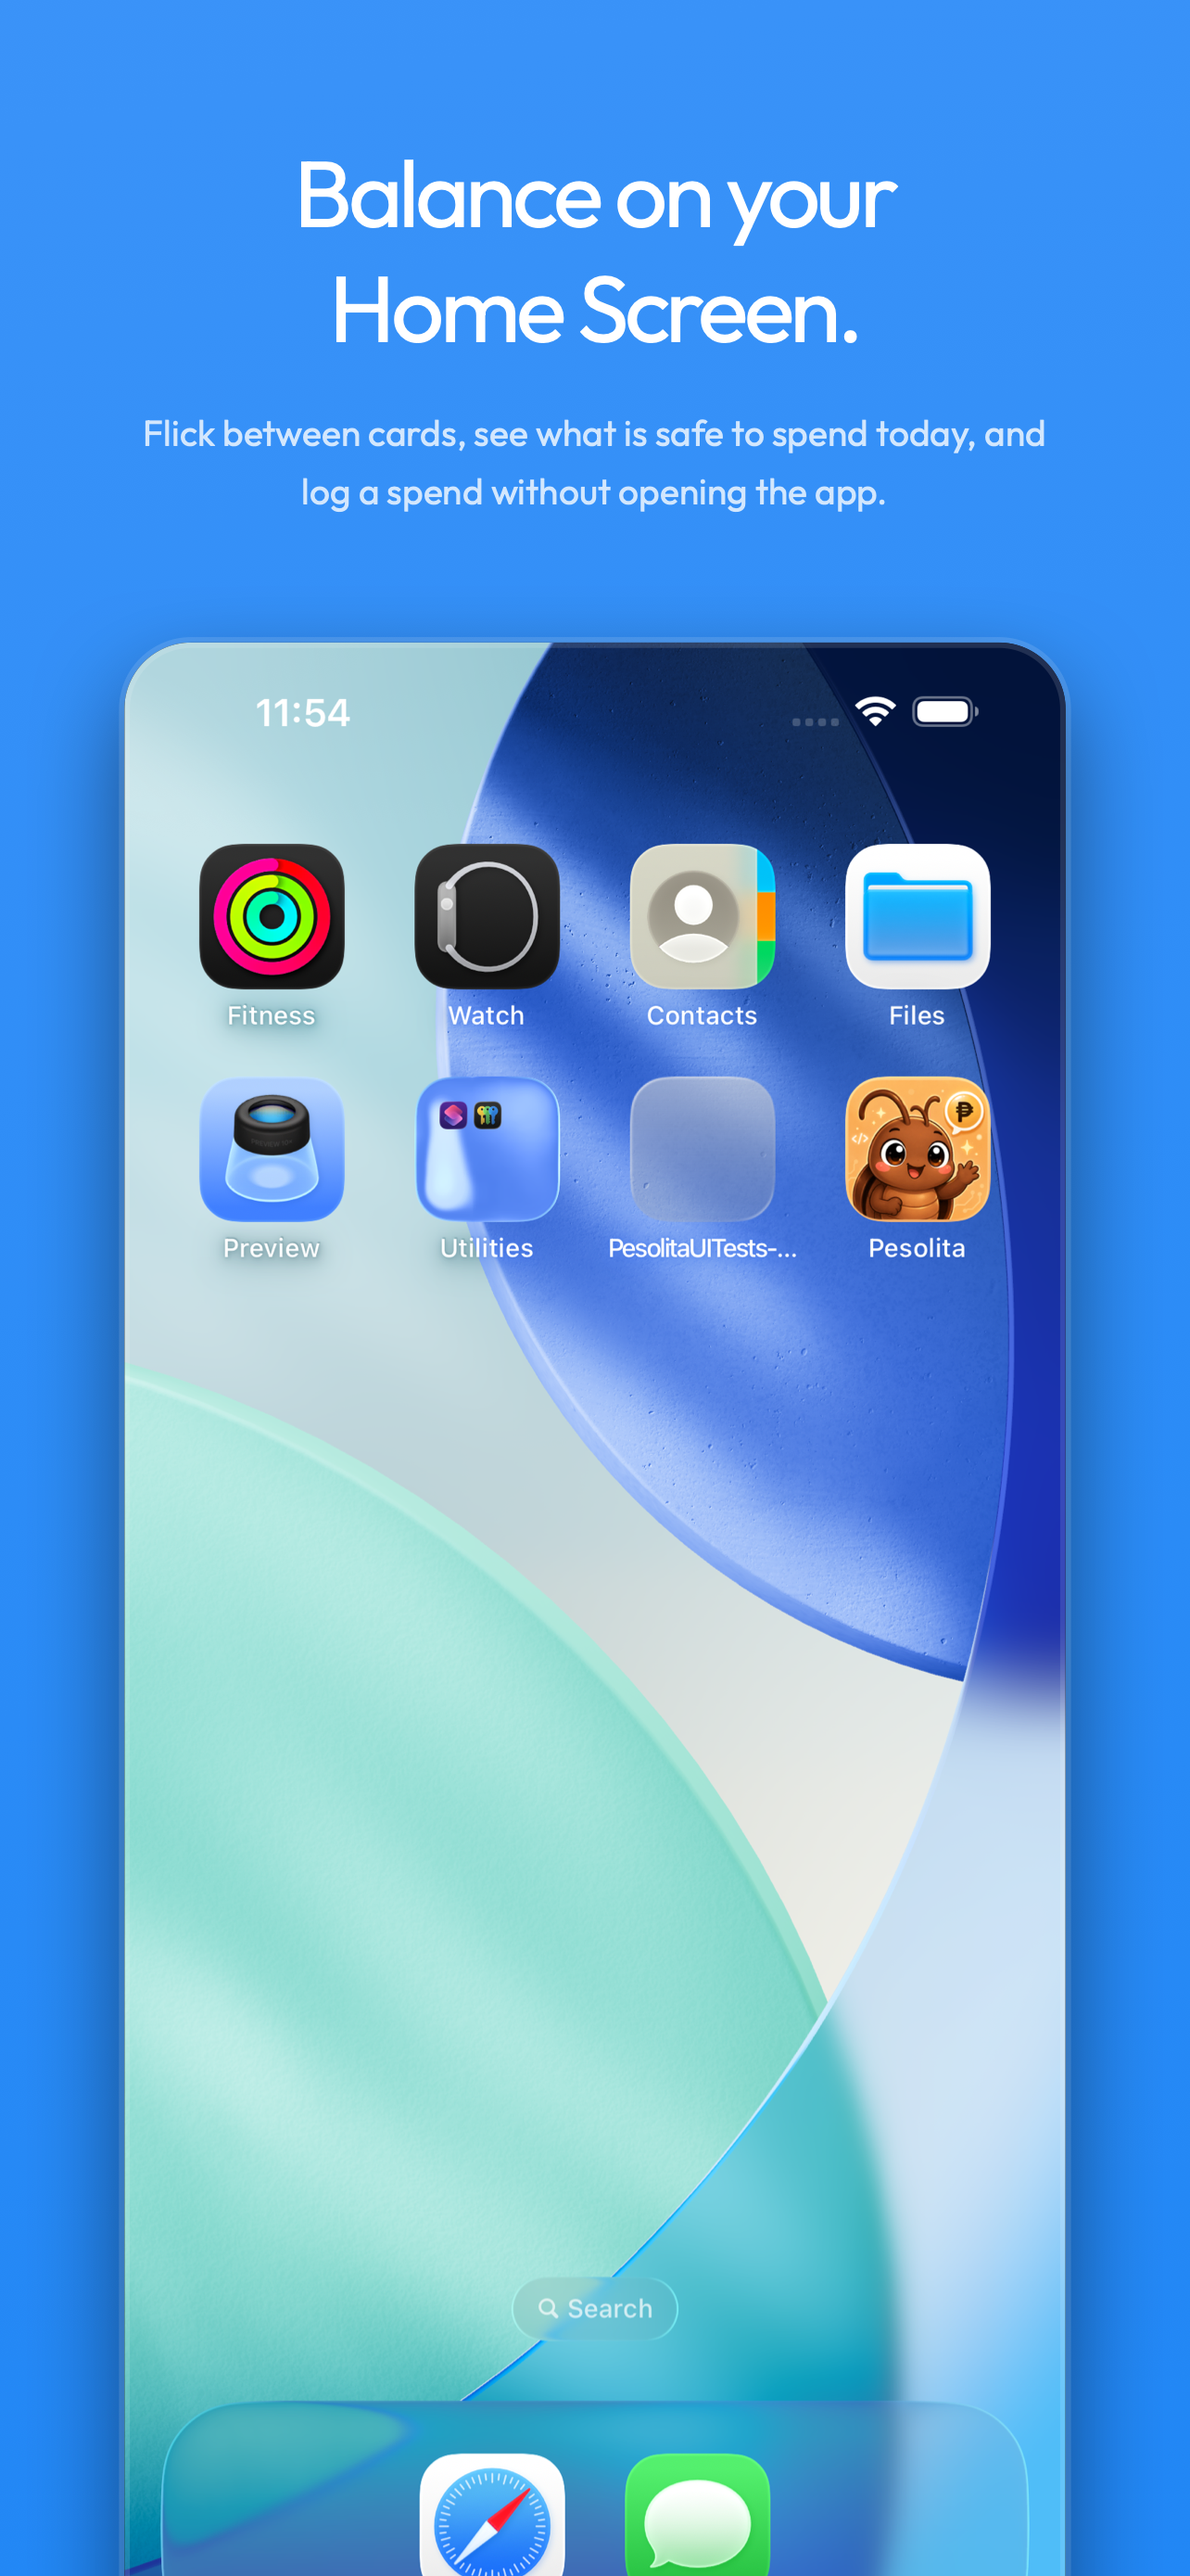
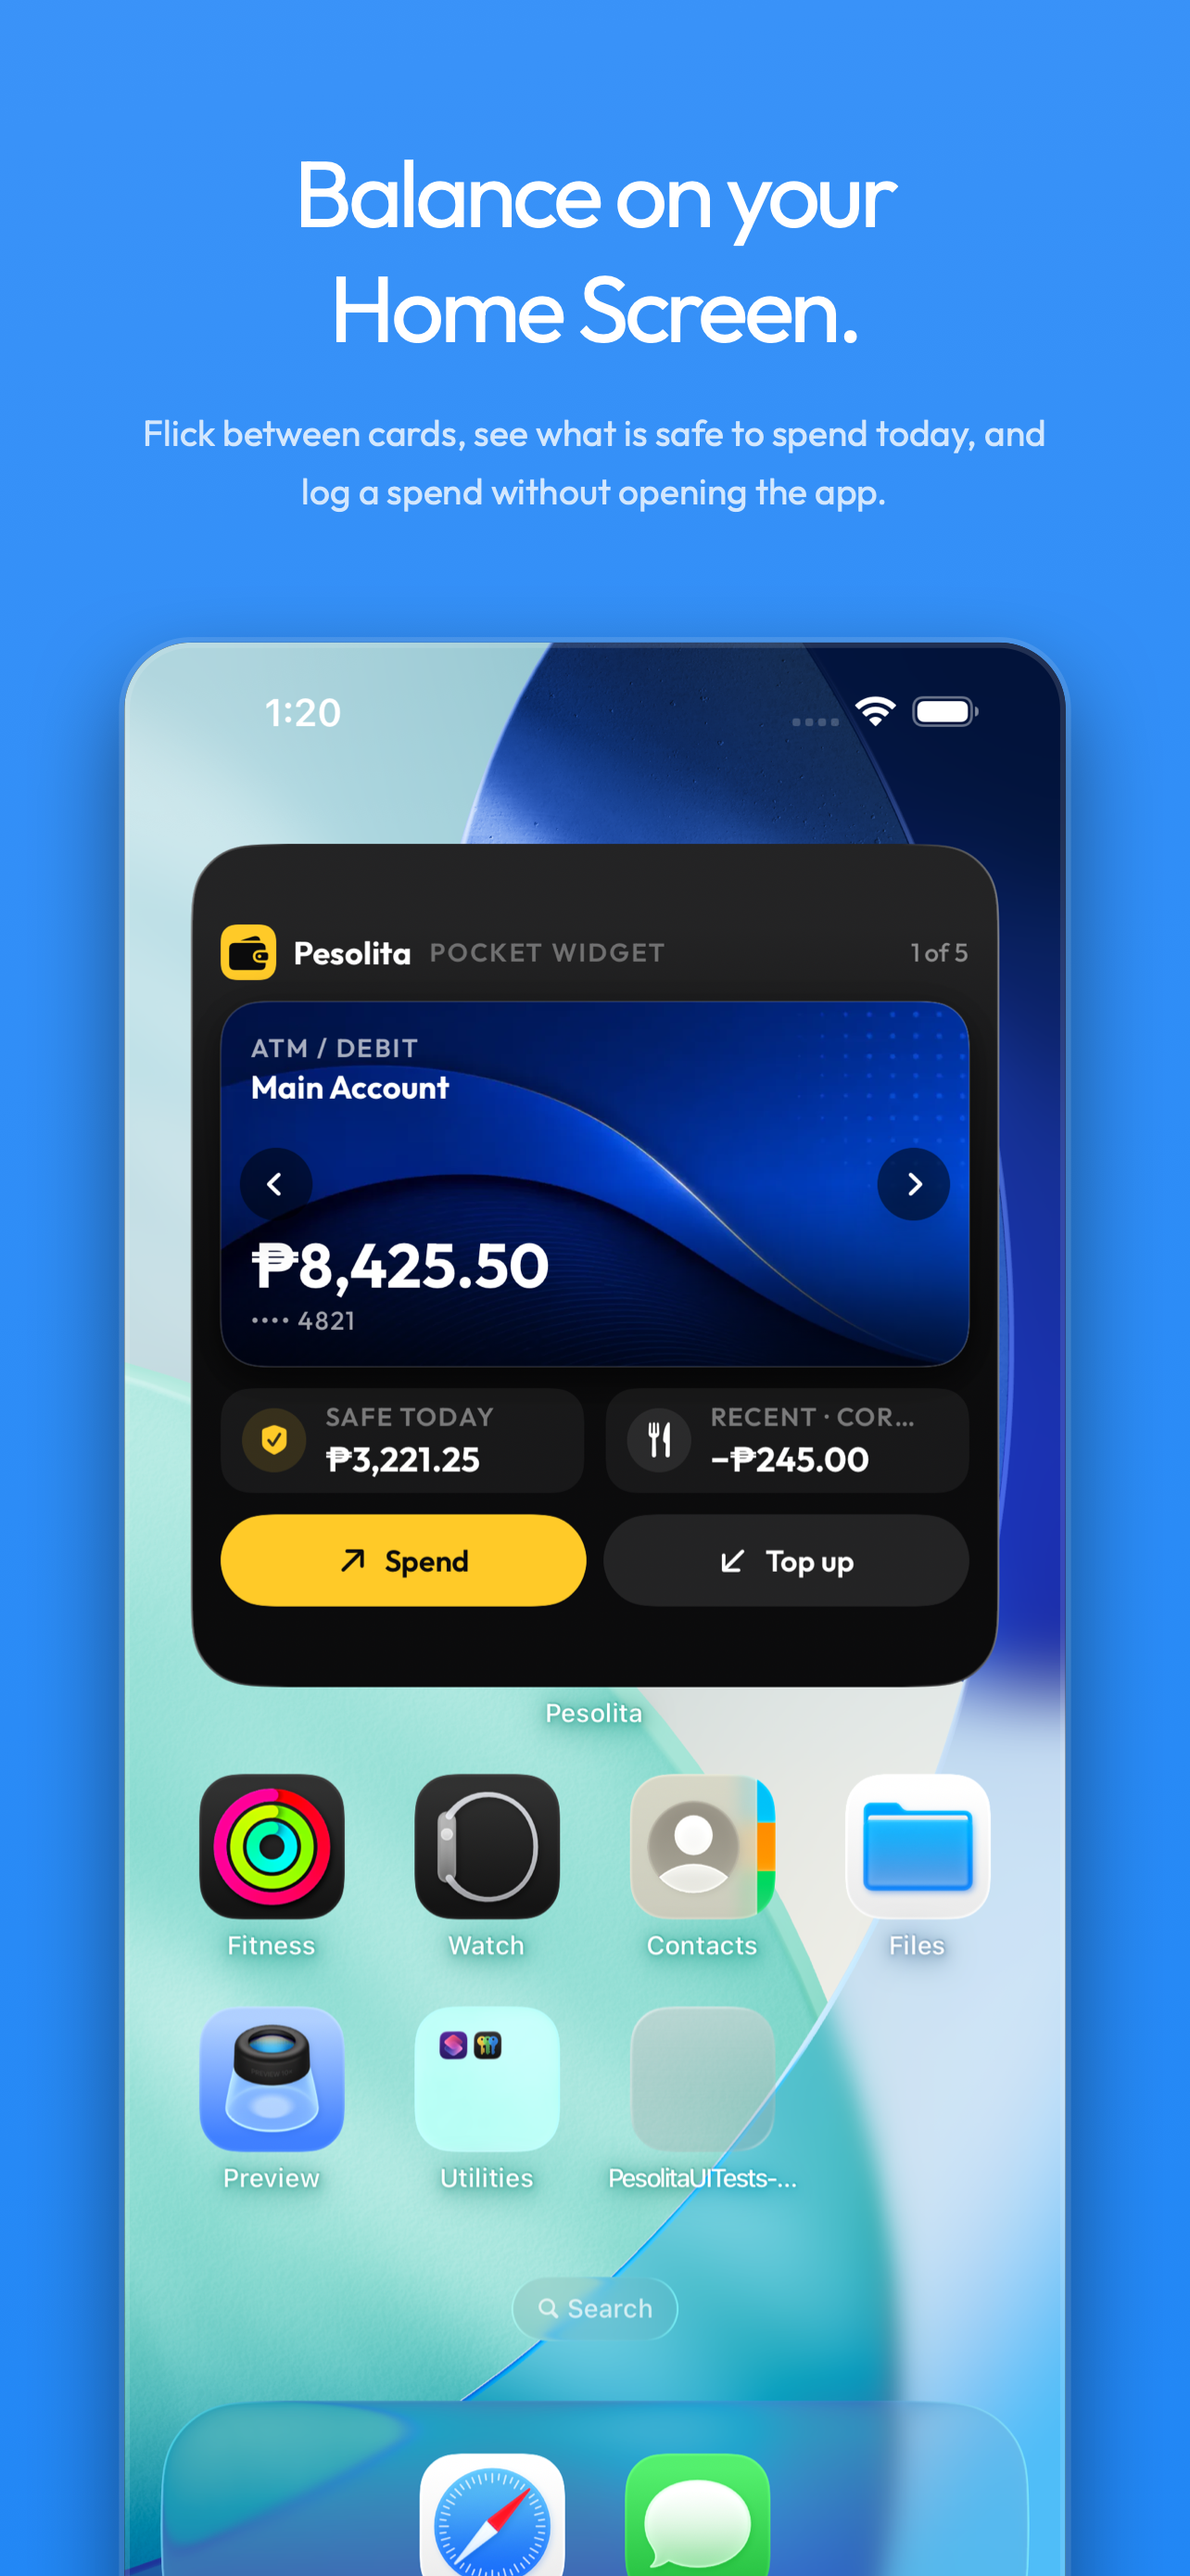
Make the widget capture assert what it captured
The test reported success while producing a bare Home Screen, because it had
no assertion — a capture test that cannot tell success from failure is worse
than none. It now fails loudly if the widget is absent.

Two reasons the automation kept missing, both read from Springboard's own
element tree rather than guessed: the size button is labelled "Large widget",
and the confirm button's label carries a leading space (" Add Widget"), so
every exact-match query for "Add Widget" silently found nothing.

Large rather than medium: the medium size collapses to icon-only buttons,
while the large one shows the card, the safe-to-spend figure and labelled
actions — which is the point of the screenshot.

Changed region(s): [[0.1558, 0.3096, 0.8411, 0.8668], [0.2181, 0.2477, 0.2804, 0.2786], [0.405, 0.3096, 0.4361, 0.3405]]

diff --git a/ios/Pesolita/PesolitaUITests/StoreShotTests.swift b/ios/Pesolita/PesolitaUITests/StoreShotTests.swift
@@ -38,21 +38,32 @@ final class StoreShotTests: XCTestCase {
             icon.press(forDuration: 1.4)
             settle(1.4)
 
-            // iOS 26's icon menu offers widget sizes as a row of glyphs rather than an
-            // "Add Widget" label, so there is no text to query — the medium size sits
-            // third along that row.
-            springboard.coordinate(withNormalizedOffset: CGVector(dx: 0.711, dy: 0.324)).tap()
+            // Exact labels, read from Springboard's own tree. Two details cost several
+            // attempts: the size button is "Medium-sized widget", not "Medium", and the
+            // confirm button's label carries a leading space — " Add Widget" — so every
+            // exact-match query for "Add Widget" silently found nothing.
+            let tree = XCTAttachment(string: springboard.debugDescription)
+            tree.name = "icon-menu-tree"
+            tree.lifetime = .keepAlways
+            add(tree)
+
+            // Large, not medium: the medium size collapses the widget to icon-only
+            // buttons, while the large one shows the card, the safe-to-spend figure and
+            // labelled Spend / Top up — which is what the screenshot is meant to show.
+            let large = springboard.buttons["Large widget"]
+            if large.waitForExistence(timeout: 4), large.isHittable {
+                large.tap()
+            } else {
+                springboard.coordinate(withNormalizedOffset: CGVector(dx: 0.777, dy: 0.324)).tap()
+            }
             settle(2.2)
 
-            for label in ["Add Widget", "Add"] where springboard.buttons[label].waitForExistence(timeout: 4) {
-                let button = springboard.buttons[label]
-                if button.isHittable {
-                    button.tap()
-                } else {
-                    button.coordinate(withNormalizedOffset: CGVector(dx: 0.5, dy: 0.5)).tap()
-                }
+            let confirm = springboard.buttons.matching(
+                NSPredicate(format: "label CONTAINS[c] 'Add Widget'")
+            ).firstMatch
+            if confirm.waitForExistence(timeout: 5) {
+                confirm.tap()
                 settle(2.4)
-                break
             }
 
             if springboard.buttons["Done"].waitForExistence(timeout: 3) {
@@ -62,6 +73,10 @@ final class StoreShotTests: XCTestCase {
         }
 
         capture("13-widget-home-screen")
+        XCTAssertTrue(
+            springboard.staticTexts["SAFE TODAY"].exists,
+            "The widget is not on the Home Screen — the captured image would be unusable."
+        )
     }
 
     private func capture(_ name: String) {
